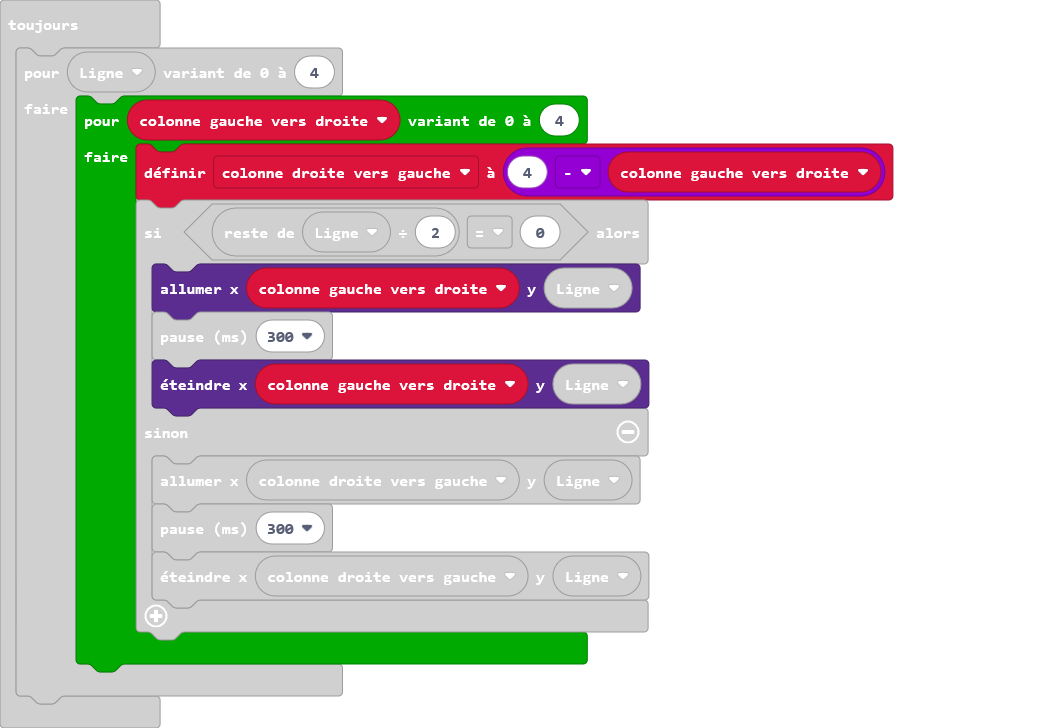
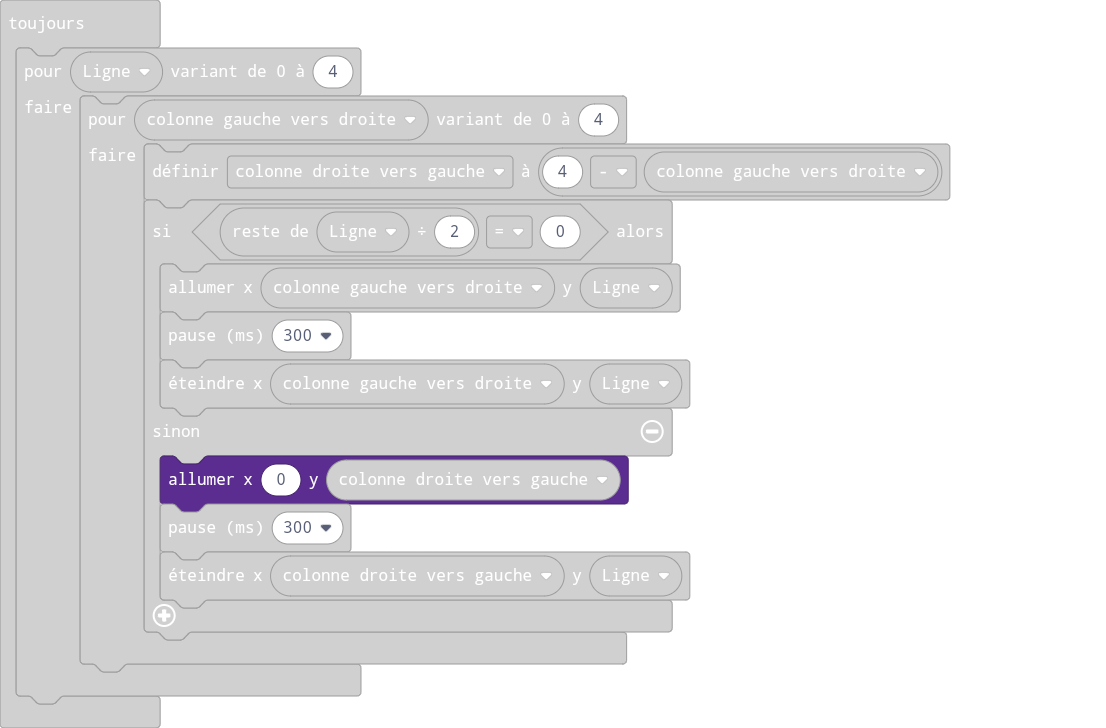
Mise à jour main.blocks, main.ts

diff --git a/main.ts b/main.ts
@@ -8,7 +8,7 @@ basic.forever(function () {
                 basic.pause(300)
                 led.unplot(colonne_gauche_vers_droite, Ligne)
             } else {
-                led.plot(colonne_droite_vers_gauche, Ligne)
+                led.plot(0, colonne_droite_vers_gauche)
                 basic.pause(300)
                 led.unplot(colonne_droite_vers_gauche, Ligne)
             }
